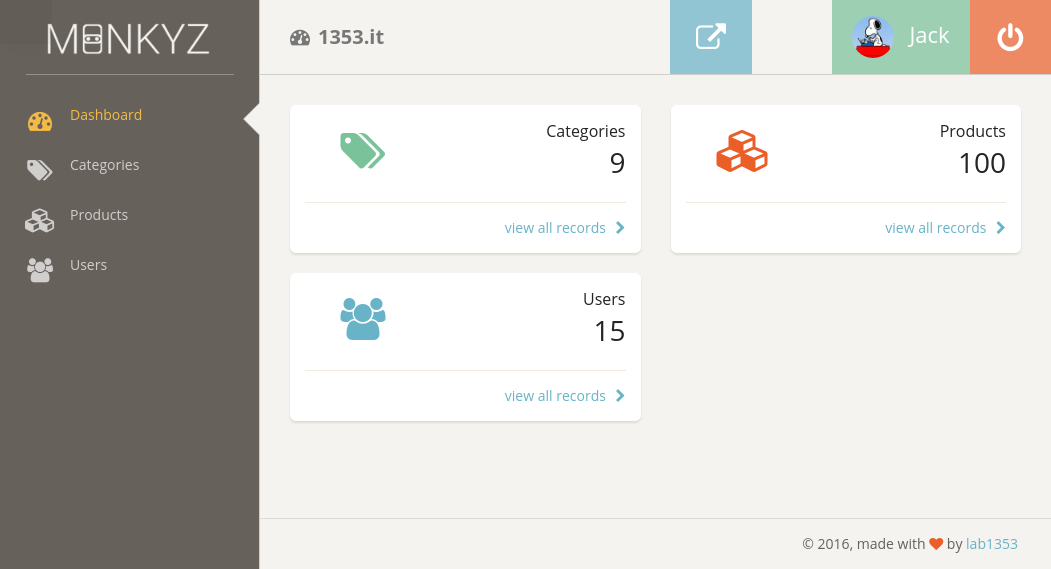
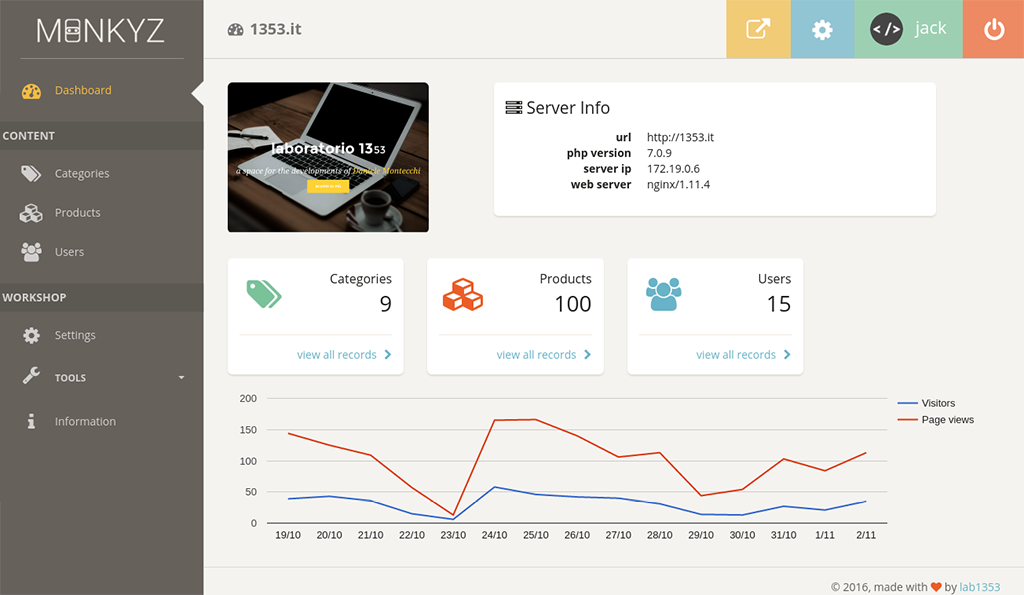
Add Google Analytics graph

diff --git a/src/Views/panel/dashboard.blade.php b/src/Views/panel/dashboard.blade.php
@@ -1,5 +1,51 @@
 @extends('monkyz::layouts.monkyz')
 
+@section('scripts')
+	@if(!empty($settings['dashboard']['analytics']) && is_array($analytics))
+		<script type="text/javascript" src="https://www.gstatic.com/charts/loader.js"></script>
+		<script>
+			google.charts.load('current', {packages: ['corechart', 'line']});
+			google.charts.setOnLoadCallback(drawBackgroundColor);
+
+			function drawBackgroundColor() {
+				  var data = new google.visualization.DataTable();
+				  data.addColumn('string', 'Date');
+				  data.addColumn('number', 'Visitors');
+				  data.addColumn('number', 'Page views');
+
+				  data.addRows([
+					@php
+						$i = 0;
+						$numItems = count($analytics['TotalVisitorsAndPageViews']);
+						foreach ($analytics['TotalVisitorsAndPageViews'] as $value) {
+							echo '[
+								\''.$value['date']->day.'/'.$value['date']->month.'\',
+								'.$value['visitors'].',
+								'.$value['pageViews'].'
+							]';
+							if (++$i !== $numItems) echo ',';
+						};
+					@endphp
+				  ]);
+
+				  var options = {
+					hAxis: {
+					  axisTitlesPosition: 'none'
+					},
+					vAxis: {
+					  axisTitlesPosition: 'none'
+					},
+					chartArea: {left:50,top:10,width:'80%',height:'80%'},
+					backgroundColor: 'transparent'
+				  };
+
+				  var chart = new google.visualization.LineChart(document.getElementById('chart_div'));
+				  chart.draw(data, options);
+				}
+		</script>
+	@endif
+@endsection
+
 @section('content')
 
 				{{-- DATA --}}
@@ -17,7 +63,7 @@
 								</div>
 								<div class="content">
 									<dl class="dl-horizontal">
-										@foreach($server as $k=>$v)
+										@foreach($serverinfo as $k=>$v)
 											<dt>{{$k}}</dt><dd>{{$v}}</dd>
 										@endforeach
 									</dl>
@@ -29,7 +75,7 @@
 
 				{{-- COUNTERS --}}
 				@if(!empty($settings['dashboard']['counters']))
-	 				@php
+					@php
 					$colors = ['success','info','warning','danger'];
 					@endphp
 					<p>&nbsp;</p>
@@ -66,6 +112,22 @@
 								</div>
 							</div>
 						@endforeach
+					</div>
+				@endif
+
+				{{-- ANALYTICS --}}
+				@if(!empty($settings['dashboard']['analytics']))
+					<div class="row">
+						<div class="col-xs-12">
+							@if(is_array($analytics))
+								<div id="chart_div"></div>
+							@else
+								<div class="alert alert-danger">
+                                    <button type="button" aria-hidden="true" class="close">×</button>
+                                    <span>{!! $analytics !!}</span>
+                                </div>
+							@endif
+						</div>
 					</div>
 				@endif
 @endsection

diff --git a/src/Controllers/PanelController.php b/src/Controllers/PanelController.php
@@ -23,19 +23,21 @@ class PanelController extends MonkyzController
 		// settings
 		$hsettings = new HSettings();
 		$settings = $hsettings->getAll();
-		$c_counters = $hsettings->getCounters();
+		$sett_counters = $hsettings->getCounters();
+		$sett_dashboard = $hsettings->getDashboard();
+		$sett_analytics = $hsettings->getAnalytics();
 
 		// counters
 		$cache_key = $hsettings->cache_key_counters;
 		$counters = [];
 
-		if (!empty($settings['dashboard']['counters'])) {
+		if (!empty($sett_dashboard['counters'])) {
 			if (Cache::has($cache_key)) {
 				$counters = Cache::get($cache_key);
 			} else {
 				$tables = $this->htables->getTables();
 				foreach ($tables as $table => $params) {
-					if ($params['visible'] && !empty($c_counters[$table])) {
+					if ($params['visible'] && !empty($sett_counters[$table])) {
 						$m = new DynamicModel($table);
 						$c = $m->count();
 
@@ -49,14 +51,38 @@ class PanelController extends MonkyzController
 			}
 		}
 
-		$server = [
-			'url'	=> config('app.url'),
-			'php version'   => request()->server('PHP_VERSION'),
-			'server ip'   => request()->server('SERVER_ADDR'),
-			'web server'   => request()->server('SERVER_SOFTWARE'),
-		];
+		// serverinfo
+		$serverinfo = [];
+		if (!empty($sett_dashboard['serverinfo'])) {
+			$serverinfo = [
+				'url'	=> config('app.url'),
+				'php version'   => request()->server('PHP_VERSION'),
+				'server ip'   => request()->server('SERVER_ADDR'),
+				'web server'   => request()->server('SERVER_SOFTWARE'),
+			];
+		}
 
-		return view('monkyz::panel.dashboard')->with(compact('counters','server', 'settings'));
+		// analytics
+		$analytics = [];
+		if (!empty($sett_dashboard['analytics'])) {
+			$cache_key = $hsettings->cache_key_analytics;
+			if (!Cache::has($cache_key)) {
+				$analytics = Cache::get($cache_key);
+			} else {
+				$viewId = $sett_analytics['viewid'];
+				if (!empty($viewId)) {
+					$config = config('laravel-analytics');
+					$client = \Spatie\Analytics\AnalyticsClientFactory::createForConfig($config);
+					$classAnalytics = new \Spatie\Analytics\Analytics($client, $viewId);
+					$analytics['TotalVisitorsAndPageViews'] = $classAnalytics->fetchTotalVisitorsAndPageViews(\Spatie\Analytics\Period::days(14));
+					Cache::put($cache_key, $analytics, (int)config('monkyz.cache_minutes', 60));
+				} else {
+					$analytics = 'Set parameter viewId in <a href="'.route('monkyz.settings').'">Settings</a>';
+				}
+			}
+		}
+
+		return view('monkyz::panel.dashboard')->with(compact('counters','serverinfo','settings','analytics'));
 	}
 
 	public function getInfo()

diff --git a/src/Views/settings/index.blade.php b/src/Views/settings/index.blade.php
@@ -28,6 +28,13 @@
 							</div>
 						</div>
 						<div class="row">
+							<div class="col-xs-8">Analytics</div>
+							<div class="col-xs-4">
+								<input type="hidden" id="dashboard_analytics" name="dashboard_analytics" value="0" />
+								<input type="checkbox" id="dashboard_analytics" name="dashboard_analytics" @if($settings['dashboard']['analytics']) checked @endif data-toggle="switch" class="ct-primary" value="1" />
+							</div>
+						</div>
+						<div class="row">
 							<div class="col-xs-8">Counters</div>
 							<div class="col-xs-4">
 								<input type="hidden" id="dashboard_counters" name="dashboard_counters" value="0" />
@@ -59,6 +66,28 @@
 								</div>
 							@endif
 						@endforeach
+					</div>
+				</div>
+			</div>
+		</div>
+
+		<div class="row">
+			<div class="col-md-6">
+				<div class="card">
+					<div class="header">
+						<h4 class="title">Google Analytics</h4>
+					</div>
+					<div class="content">
+						<div class="row">
+							<div class="col-xs-12">
+								<div class="form-group">
+                                    <label class="col-sm-4">View ID</label>
+                                    <div class="col-sm-8">
+                                        <input type="text" id="analytics_viewid" name="analytics_viewid" value="{{$settings['analytics']['viewid']}}" class="form-control" />
+                                    </div>
+                                </div>
+							</div>
+						</div>
 					</div>
 				</div>
 			</div>

diff --git a/src/Helpers/SettingsHelper.php b/src/Helpers/SettingsHelper.php
@@ -8,8 +8,10 @@ class SettingsHelper
 {
 	protected $cache_key_settings = 'monkyz-settings';
 	public $cache_key_counters = 'monkyz-widgets-counters';
+	public $cache_key_analytics = 'monkyz-widgets-analytics';
 	protected $settings_key_counters = 'counters';
 	protected $settings_key_dashboard = 'dashboard';
+	protected $settings_key_analytics = 'analytics';
 
 	public function resetDefault()
 	{
@@ -28,8 +30,12 @@ class SettingsHelper
 				'screenshot'	=> true,
 				'serverinfo'	=> true,
 				'counters'	=> true,
+				'analytics'	=> true,
 			],
 			$this->settings_key_counters=>[],
+			$this->settings_key_analytics=>[
+				'viewid'	=> '',
+			],
 		];
 	}
 
@@ -56,6 +62,13 @@ class SettingsHelper
 		$settings = $this->getAll();
 
 		return $settings[$this->settings_key_dashboard];
+	}
+
+	public function getAnalytics()
+	{
+		$settings = $this->getAll();
+
+		return $settings[$this->settings_key_analytics];
 	}
 
 

diff --git a/config/laravel-analytics.php b/config/laravel-analytics.php
@@ -1,0 +1,27 @@
+<?php
+
+return [
+
+	/*
+	 * The view id of which you want to display data.
+	 */
+	'view_id' => '',
+
+	/*
+	 * Path to the client secret json file. Take a look at the README of this package
+	 * to learn how to get this file.
+	 */
+	'service_account_credentials_json' => storage_path('app/laravel-google-analytics/service-account-credentials.json'),
+
+	/*
+	 * The amount of minutes the Google API responses will be cached.
+	 * If you set this to zero, the responses won't be cached at all.
+	 */
+	'cache_lifetime_in_minutes' => 60 * 24,
+
+	/*
+	 * The directory where the underlying Google_Client will store it's cache files.
+	 */
+	'cache_location' => storage_path('app/laravel-google-analytics/google-cache/'),
+
+];

diff --git a/src/Models/DynamicModel.php b/src/Models/DynamicModel.php
@@ -13,12 +13,6 @@ use Lab1353\Monkyz\Helpers\TablesHelper as HTables;
 class DynamicModel extends Model
 {
 	protected static $_table;
-	/*
-	protected static $_primaryKey;
-	protected static $_dates;
-	protected static $_incrementing;
-	protected static $_keyType;
-	*/
 
 	//TODO: manage softDeleting: https://laravel.com/docs/5.2/eloquent#soft-deleting
 	public $timestamps = false;
@@ -43,7 +37,6 @@ class DynamicModel extends Model
 		foreach ($fields as $field=>$params) {
 			if ($params['type']=='key') {
 				$f_key_name = $field;
-				//$f_key_type = ($params['input']=='number') ? 'int' : 'string';
 			}
 			if ($field=='created_at') $f_created = true;
 			if ($field=='updated_at') $f_updated = true;

diff --git a/src/Controllers/SettingsController.php b/src/Controllers/SettingsController.php
@@ -36,7 +36,8 @@ class SettingsController extends MonkyzController
 		$settings = $this->hsettings->getDefault();
 		foreach ($inputs as $input => $value) {
 			list($k, $sub) = explode('_', $input);
-			$settings[$k][$sub]	= (bool)$value;
+			$value = ($value=='1' || $value=='0') ? (bool)$value : (string)$value;
+			$settings[$k][$sub]	= $value;
 		}
 		$this->hsettings->saveAll($settings);
 

diff --git a/src/Providers/MonkyzServiceProvider.php b/src/Providers/MonkyzServiceProvider.php
@@ -50,5 +50,12 @@ class MonkyzServiceProvider extends ServiceProvider
 		$this->commands([
 			\Lab1353\Monkyz\Commands\MonkyzTables::class
 		]);
+
+		// providers
+		$this->app->register('Spatie\Analytics\AnalyticsServiceProvider');
+
+		// aliases
+		$loader = \Illuminate\Foundation\AliasLoader::getInstance();
+		$loader->alias('Analytics', 'Spatie\Analytics\AnalyticsFacade');
 	}
 }

diff --git a/README.md b/README.md
@@ -33,6 +33,7 @@ No configuration required: without writing a single line of code, your control p
   - [`monkyz:tables`](#monkyztables)
 - [Customize](#customize)
   - [Custom Fields](#custom-fields)
+- [Google Analytics](#google-analytics)
 - [Troubleshooting](#troubleshooting)
 - [Change Log](#change-log)
 - [Into The Future](#into-the-future)
@@ -275,6 +276,15 @@ touch custom.blade.php
 		'field_name'	=> [	// name of field in db
 			'input'	=> 'custom',	// <-- change 'custom' with your custom field name
 ```
+
+## Google Analytics
+
+In the dashboard, you can view the statistics taken from Google Analytics.
+
+*Monkyz* used [spatie/laravel-analytics](https://github.com/spatie/laravel-analytics) package that requires a particular configuration to be able to retrieve data from Google Analytics.
+
+You have to follow the [official guide](https://github.com/spatie/laravel-analytics#getting-credentials) to create the file `storage/app/laravel-google-analytics/service-account-credentials.json`.
+Once you create the file, set the `viewId` parameter in the Settings page.
 
 ## Troubleshooting
 
